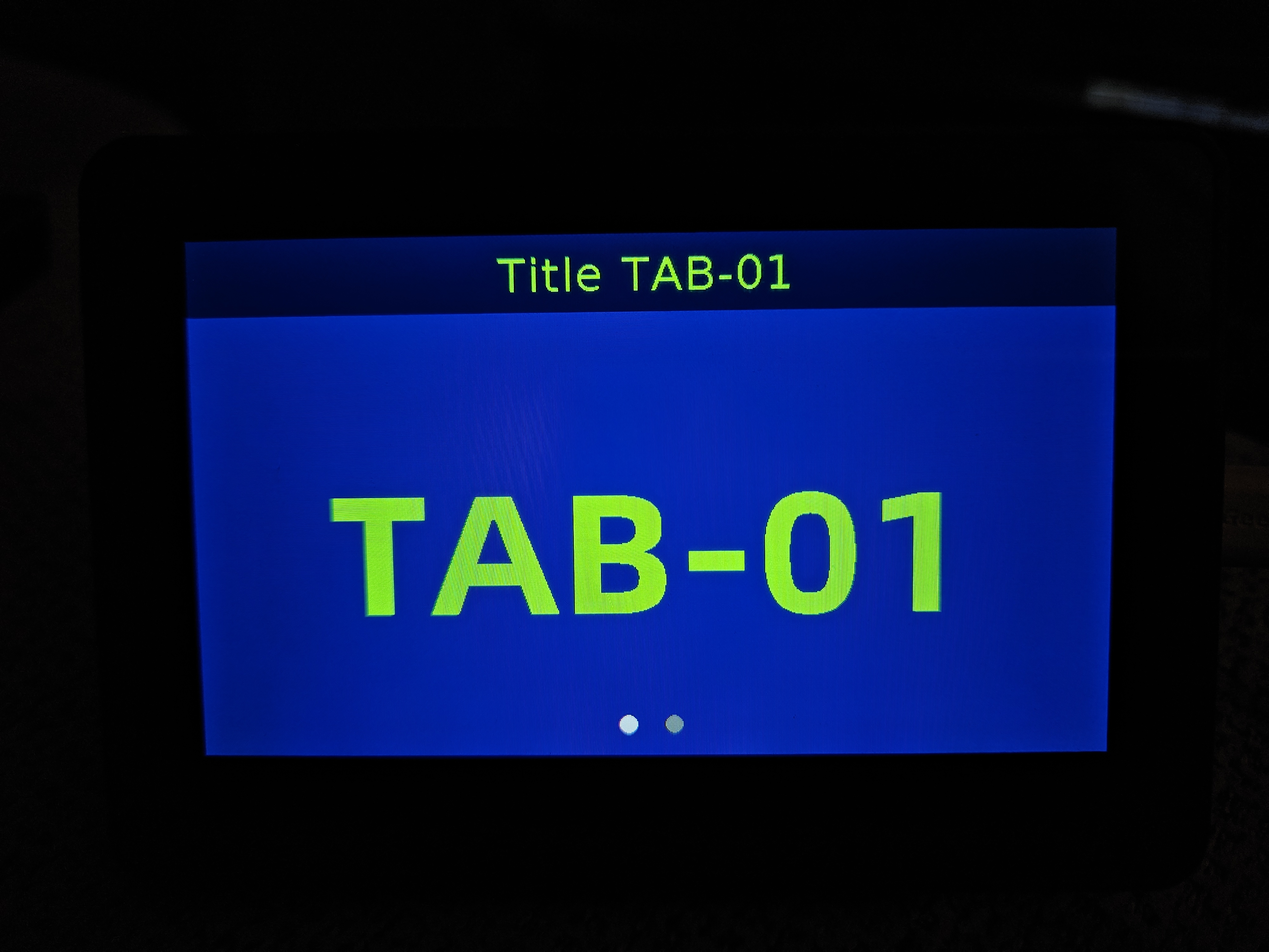
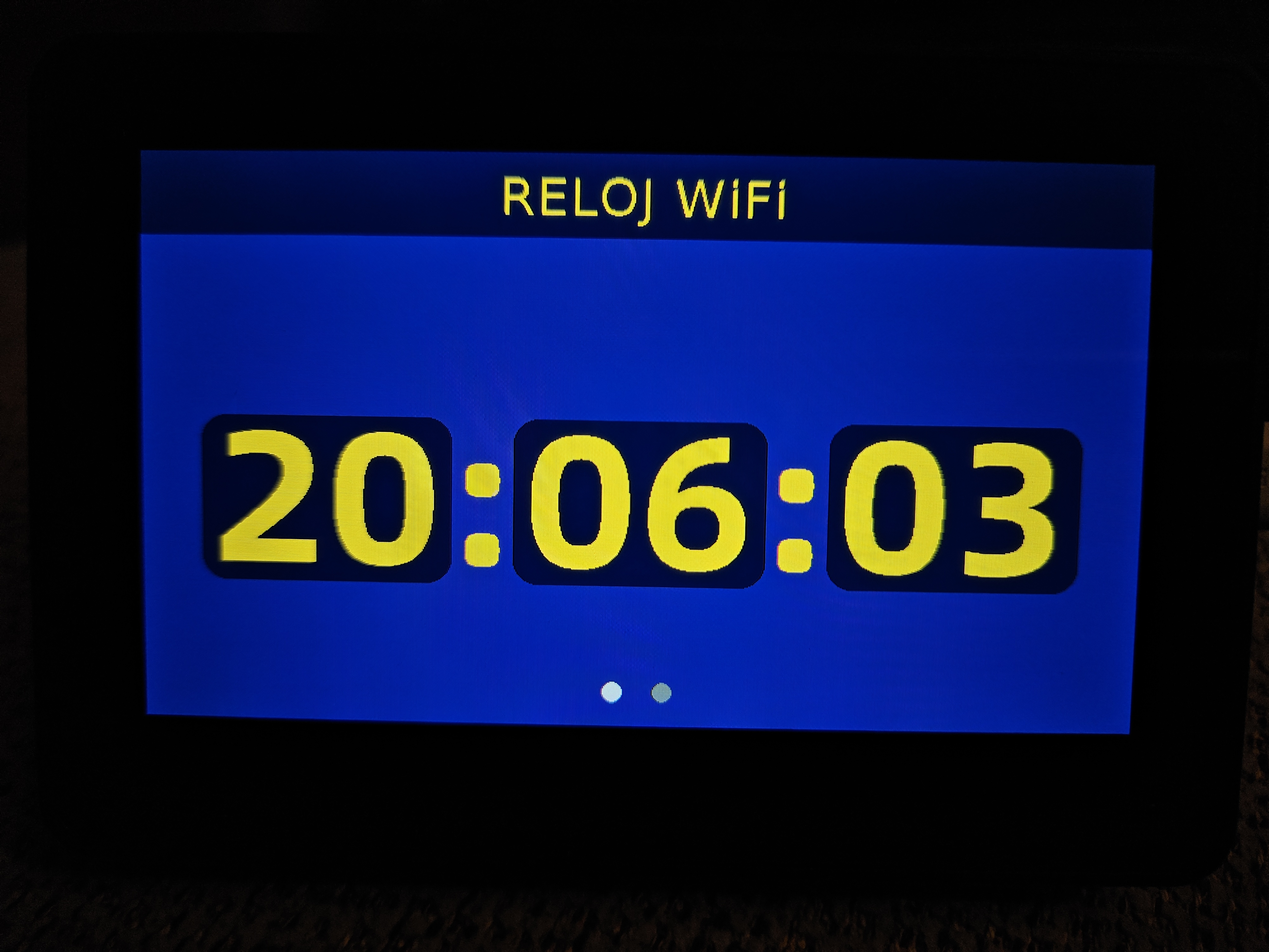
añadir conexión wifi al reloj

diff --git a/lib/tab_00/tab_00.cpp b/lib/tab_00/tab_00.cpp
@@ -1,0 +1,201 @@
+#include <LovyanGFX.hpp>
+#include "config_lovyan_gfx.h"
+
+#include "tab_00.h"
+#include "tabs_all.h"
+
+#include "WiFi.h"
+#include <esp_wifi.h>
+
+
+const char *title_00 = "CONEXION WiFi";
+
+extern LGFX tft;
+
+#define WIFI_SSID "wifi_ssid"
+#define WIFI_PASSWORD "wifi_password"
+
+#define WIFI_CONNECT_WAIT_MAX (5 * 1000)
+
+#define NTP_SERVER1 "pool.ntp.org"
+#define NTP_SERVER2 "time.nist.gov"
+//{"Europe/Madrid", "CET-1CEST,M3.5.0,M10.5.0/3"},
+#define TIMEZONE "CET-1CEST,M3.5.0,M10.5.0/3"
+
+void wifiTest()
+{
+  String text;
+  WiFi.mode(WIFI_STA);
+  WiFi.disconnect();
+  delay(100);
+  
+  tft.setFont(&fonts::DejaVu24);
+  tft.drawString("INTENTANDO CONEXION WiFi", 400, 120);
+  tft.drawString("POR FAVOR, UN MOMENTO ...", 400, 170);
+
+  // No es necesario escanear las redes cercanas
+  /* 
+  int n = WiFi.scanNetworks();
+  Serial.println("scan done");
+  if (n == 0)
+  {
+    text = "No networks found";
+  }
+  else
+  {
+    text = n;
+    text += " networks found\n";
+    for (int i = 0; i < n; ++i)
+    {
+      text += (i + 1);
+      text += ": ";
+      text += WiFi.SSID(i);
+      text += " (";
+      text += WiFi.RSSI(i);
+      text += ")";
+      text += (WiFi.encryptionType(i) == WIFI_AUTH_OPEN) ? " \n" : "*\n";
+      delay(10);
+    }
+  }
+  Serial.println(text);
+  */
+  
+  wifi_config_t current_conf = {0};
+  esp_wifi_get_config(WIFI_IF_STA, &current_conf);
+  if (strlen((const char *)current_conf.sta.ssid) == 0)
+  {
+    Serial.println("Use default WiFi SSID & PASSWORD!!");
+    memcpy((char *)(current_conf.sta.ssid), (const char *)WIFI_SSID, strlen(WIFI_SSID) + 1);
+    memcpy((char *)(current_conf.sta.password), (const char *)WIFI_PASSWORD, strlen(WIFI_PASSWORD) + 1);
+    WiFi.begin((char *)(current_conf.sta.ssid), (char *)(current_conf.sta.password));
+  }
+  else
+  {
+    Serial.println("Begin WiFi");
+    WiFi.begin();
+  }
+
+  delay(2000);
+  text = "Connecting to ";
+  Serial.print("Connecting to ");
+  text += (char *)(current_conf.sta.ssid);
+  text += "\n";
+  Serial.print((char *)(current_conf.sta.ssid));
+
+  tft.drawRoundRect(50, 210, 680,180,20, TFT_GOLD);          
+  tft.drawString("CONECTANDO A " + String((char *)(current_conf.sta.ssid)), 400, 250);
+  tft.drawString("..............", 400, 300);
+
+  // Configurar el WiFi en modo light sleep
+  //esp_wifi_set_ps(WIFI_PS_MIN_MODEM);
+
+  uint32_t last_tick = millis();
+  bool is_smartconfig_connect = false;
+  while (WiFi.status() != WL_CONNECTED)
+  {
+    Serial.print(".");
+    text += ".";
+    delay(100);
+    
+    if (millis() - last_tick > WIFI_CONNECT_WAIT_MAX)
+    { /* Automatically start smartconfig when connection times out */
+      text = "\nConnection timed out, start smartconfig";
+      delay(100);
+      is_smartconfig_connect = true;
+      WiFi.mode(WIFI_AP_STA);
+      text += "\r\nWait for smartconfig ...";
+      text += "\nPlease use EspTouch Apps to connect to the distribution network";
+      Serial.println(text);
+
+      tft.fillRoundRect(50, 210, 680,180,20, 0x003030);
+      tft.drawRoundRect(50, 210, 680,180,20, TFT_GOLD);          
+      tft.drawString("NO SE HA PODIDO CONECTAR", 400, 250);
+      tft.drawString("ESPERANDO SMARTCONFIG", 400, 300);
+      tft.drawString("USE LA APP - ESPTOUCH - PARA CONECTARSE ", 400, 350);
+    
+      WiFi.beginSmartConfig();
+      while (1)
+      {
+        delay(100);
+        if (WiFi.smartConfigDone())
+        {
+          text = "SmartConfig Success";
+          text += "\nSSID:";
+          text += WiFi.SSID().c_str();
+          text += "\nPSW:";
+          text += WiFi.psk().c_str();
+          Serial.println(text);
+          
+          tft.fillRoundRect(50, 210, 680,180,20, 0x003030);
+          tft.drawRoundRect(50, 210, 680,180,20, TFT_GOLD);          
+          
+          tft.drawString("EXITO CON SMARTCONFIG", 400, 250);
+          tft.drawString("SSID: " + String(WiFi.SSID().c_str()), 400, 300);
+          tft.drawString("PSW : " + String(WiFi.psk().c_str()), 400, 350);
+      
+          delay(5000);
+          last_tick = millis();
+          break;
+        }
+      }
+    }
+  }
+  if (!is_smartconfig_connect)
+  {
+    text = "\nCONNECTED \nTakes ";
+    text += millis() - last_tick;
+    text += " ms\n";
+    Serial.println(text);
+    tft.drawString("CONECTADO EN " + String(millis() - last_tick) + " ms", 400, 350);
+    // is_wifi_connect = true;
+  }
+  delay(1000);
+}
+
+void syncTime()
+{
+    configTzTime(TIMEZONE, NTP_SERVER1, NTP_SERVER2);
+    Serial.println("Waiting for NTP sync ...");
+    struct tm time_local;
+    if (!getLocalTime(&time_local))
+    {
+      Serial.println("Error unable to sync with NTP");
+    }
+    else
+    {
+      Serial.println("Synchronized time");
+    }
+
+}
+
+void networkReset()
+{
+  WiFi.mode(WIFI_STA);
+  WiFi.disconnect();
+
+  wifi_config_t current_conf;
+  esp_wifi_get_config((wifi_interface_t)ESP_IF_WIFI_STA, &current_conf);
+  memset(current_conf.sta.ssid, 0, sizeof(current_conf.sta.ssid));
+  memset(current_conf.sta.password, 0, sizeof(current_conf.sta.password));
+  esp_wifi_set_config((wifi_interface_t)ESP_IF_WIFI_STA, &current_conf);
+}
+
+bool tab_00_view(void)
+{
+    tab_number = 0;
+
+    tft.fillScreen(0x003030);
+    tft.fillRect(0, 0, 800, 70, 0x000028);
+    tft.setTextColor(TFT_GOLD);
+    tft.setFont(&fonts::DejaVu40);
+    // tft.setTextSize(4);
+    tft.setTextDatum(CC_DATUM);
+    tft.drawString(title_00, 400, 40);
+
+    Serial.println("Try to connect to wifi");
+    //networkReset();
+    wifiTest();
+    syncTime();
+    return true;
+    
+}

diff --git a/lib/config_lovyan_gfx/config_lovyan_gfx.cpp b/lib/config_lovyan_gfx/config_lovyan_gfx.cpp
@@ -118,12 +118,12 @@ void taskManagementGesture(void *pvParameters)
                 Serial.println("Gesture: DOWN");
                 break;
             case LEFT:
-                if (tab_number != 2)
+                if (tab_number != 2 && tab_number != 0)
                     tab_02_view();
                 Serial.println("Gesture: LEFT");
                 break;
             case RIGHT:
-                if (tab_number != 1)
+                if (tab_number != 1 && tab_number != 0)
                     tab_01_view();
                 Serial.println("Gesture: RIGHT");
                 break;
@@ -154,8 +154,7 @@ void init_lovyangfx()
     tft.init();
 
     //  tft.setRotation(0);
-    tab_01_view();
-
+    
     // Crear cola para los gestos
     gestureQueue = xQueueCreate(5, sizeof(Gesture));
     if (gestureQueue == NULL)

diff --git a/lib/fun_ clock_wifi/clock_wifi.cpp b/lib/fun_ clock_wifi/clock_wifi.cpp
@@ -1,8 +1,11 @@
 #include <Arduino.h>
 #include "clock_wifi.h"
 #include "tabs_all.h"
+#include "tab_00.h"
 #include "tab_01.h"
 
+#define MODE_WIFI 1
+bool is_wifi_connected = false;
 
 // Configuración inicial del RTC interno
 // Año, mes, dia, Hora, Minuto, segundo
@@ -69,8 +72,19 @@ void taskShowLocalTime(void *pvParameters)
 void init_clock_wifi(void)
 {
 
+#if MODE_WIFI 
+    
+    while(!is_wifi_connected)
+    {
+        is_wifi_connected = tab_00_view();
+    }
+    tab_01_view();
+
+#else    
     Serial.println("WiFi not connected");
-    setManualLocalTime();
+    setManualLocalTime();    
+    tab_01_view();
+#endif
 
     xTaskCreate(taskShowLocalTime, "taskShowLocalTime", 1024 * 3, NULL, 1, NULL);
 }

diff --git a/lib/tab_01/tab_01.cpp b/lib/tab_01/tab_01.cpp
@@ -6,7 +6,7 @@
 // Dirección para convrtir fuentes https://rop.nl/truetype2gfx/
 #include "myfonts/AlibabaSans_Bold80pt7b.h"
 
-const char *title_01 = "Title TAB-01";
+const char *title_01 = "RELOJ WiFi";
 
 extern LGFX tft;
 //static LGFX_Sprite sprite_info_wifi(&tft);

diff --git a/lib/tab_00/tab_00.h b/lib/tab_00/tab_00.h
@@ -1,0 +1,3 @@
+#pragma once 
+
+bool tab_00_view(void);
